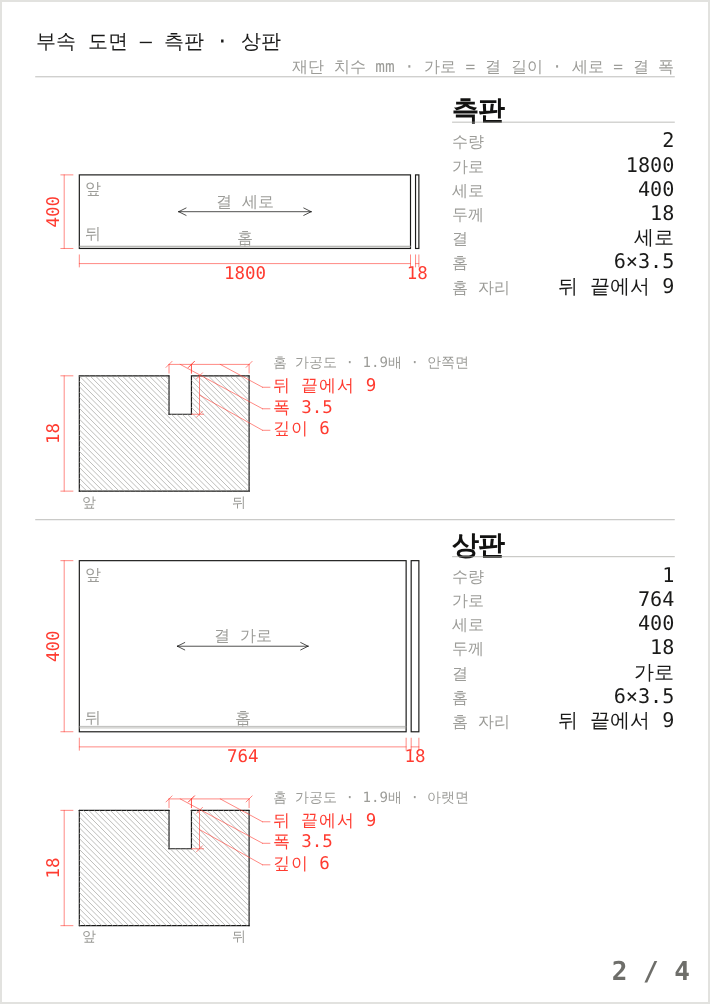
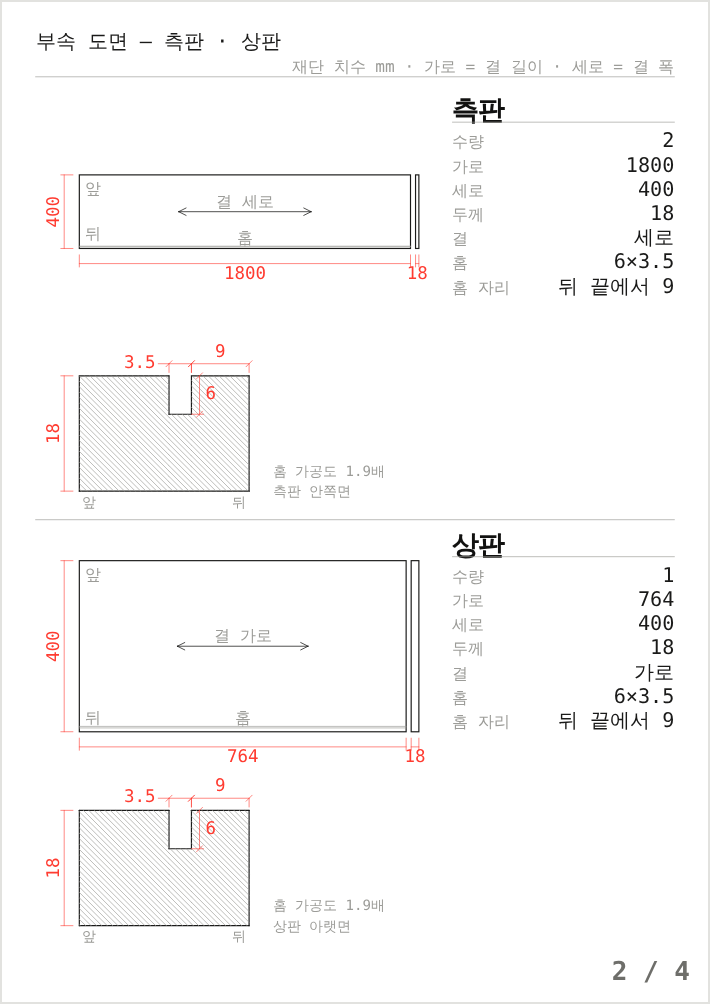
홈 치수를 제 치수선에 적는다
지시선으로 빼내던 것을 치수선 위에 적는다. 숫자가 치수선보다 넓으면 바로 옆에 붙인다.
이름표(홈 가공도 배율·면)만 단면 옆에 남긴다.

Claude-Session: https://claude.ai/code/session_01EKNRGFHGrx8LhDAjWNMSSY

diff --git a/index.html b/index.html
@@ -879,24 +879,24 @@ function 부속쪽SVG(행들, m){
       // 홈 치수는 그림에 치수선으로 찍는다 — 1쪽 홈 가공도에서 쓰던 방법 그대로다.
       // 홈이 3.5mm 라 숫자가 제 치수선보다 넓다. 그래서 치수선은 글자 없이 긋고,
       // 숫자는 가리키는 곳에서 지시선을 빼어 옆에 적는다.
+      // 숫자는 제 치수선 위에 적는다. 치수선보다 숫자가 넓으면 치수선 바로 옆에 붙여 적는다 —
+      // 도면에서 좁은 자리를 적는 법이다. 멀리 빼내지 않는다.
       const 자국 = (tx, tyy) => 선(tx - 0.9, tyy + 0.9, tx + 0.9, tyy - 0.9, 'dim');
-      const 치수선 = (ax, bx, yy) => { 선(ax, yy, ax, yy + 2.6, 'dim'); 선(bx, yy, bx, yy + 2.6, 'dim');
-        선(ax, yy, bx, yy, 'dim'); 자국(ax, yy); 자국(bx, yy); };
-      const lx = sx + sw + 7, ly0 = sy + 2, dyy = sy - 3.4;
-      const 빼서적기 = (px, py, ly, str) => {
-        선(px, py, lx - 3, ly, 'dim'); 선(lx - 3, ly, lx - 0.8, ly, 'dim');
-        글(str, lx, ly, 't3', 'start');
+      const 치수선 = (ax, bx, yy, str) => {
+        선(ax, yy, ax, yy + 2.6, 'dim'); 선(bx, yy, bx, yy + 2.6, 'dim');
+        선(ax, yy, bx, yy, 'dim'); 자국(ax, yy); 자국(bx, yy);
+        if (글자폭(str, 5.2) + 1.5 <= bx - ax) 글(str, (ax + bx)/2, yy - 3.2, 't3');
+        else { 선(ax - 3.2, yy, ax, yy, 'dim'); 글(str, ax - 4, yy, 't3', 'end'); }
       };
-      치수선(gx, gx + gw, dyy);                       // 홈 폭
-      치수선(gx + gw, sx + sw, dyy);                  // 홈에서 뒤 끝까지
-      const vx = gx + gw + 2.4;                       // 깊이 — 홈 옆 살 안에 세로로
+      const dyy = sy - 3.6;
+      치수선(gx, gx + gw, dyy, fmt(m.홈.폭));               // 홈 폭
+      치수선(gx + gw, sx + sw, dyy, fmt(규칙.홈뒤살));       // 홈에서 뒤 끝까지
+      const vx = gx + gw + 2.4;                             // 깊이 — 홈 옆 살 안에 세로로
       선(vx, sy, vx, sy + gd, 'dim'); 자국(vx, sy); 자국(vx, sy + gd);
       선(gx + gw, sy + gd, vx + 1.2, sy + gd, 'dim');
-      // 가리키는 곳이 높은 것부터 위에 적는다 — 그래야 지시선끼리 엇갈리지 않는다.
-      글(`홈 가공도 · ${배.toFixed(1)}배 · ${홈면[r.name] || ''}`, lx, sy - 4, 't5', 'start');
-      빼서적기((gx + gw + sx + sw)/2, dyy, ly0 + 1.4, `뒤 끝에서 ${fmt(규칙.홈뒤살)}`);
-      빼서적기((gx + gx + gw)/2, dyy, ly0 + 7.8, `폭 ${fmt(m.홈.폭)}`);
-      빼서적기(vx, sy + gd/2, ly0 + 14.2, `깊이 ${fmt(m.홈.깊이)}`);
+      글(fmt(m.홈.깊이), vx + 1.8, sy + gd/2, 't3', 'start');
+      글(`홈 가공도 ${배.toFixed(1)}배`, sx + sw + 7, sy + st - 6, 't5', 'start');   // 이름표(치수가 아니다)
+      글(`${r.name} ${홈면[r.name] || ''}`, sx + sw + 7, sy + st, 't5', 'start');
       세로치수(sy, sy + st, sx - 4.5, fmt(r.T));
     }
   });
